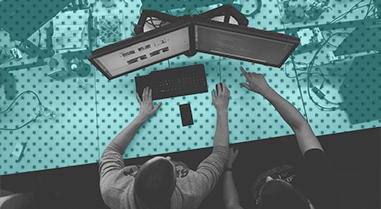
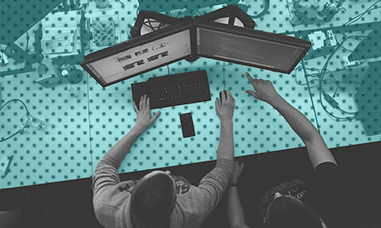
Fixed blog image and typo

diff --git a/_posts/2019-02-12-pairing-is-the-new-training.md b/_posts/2019-02-12-pairing-is-the-new-training.md
@@ -59,7 +59,7 @@ Pairing is the value-driven educational approach that modern development teams n
 The repetition associated with this approach transforms the Forgetting Curve into something wholly different.
 
 <div style="text-align: center;">
-  <img src=/img/posts/pairing/Article_pairing3.svg" alt="Overcoming Forgetting Curve" />
+  <img src="/img/posts/pairing/Article_pairing3.svg" alt="Overcoming Forgetting Curve" />
 </div>
 
 Let’s look at an example. At Otter Networks, we work closely with CTOs and engineers who are looking to transform their company’s infrastructure and deploy faster. Our approach to making this happen for them is achieved in a one-week Skills Sprint, during which we pair with developers while they build a flexible CI/CD infrastructure using Kubernetes. Not only is the team left with valuable knowledge about how to manage brand new infrastructure – but they enjoy true ownership of it because they’ve built it themselves. 
